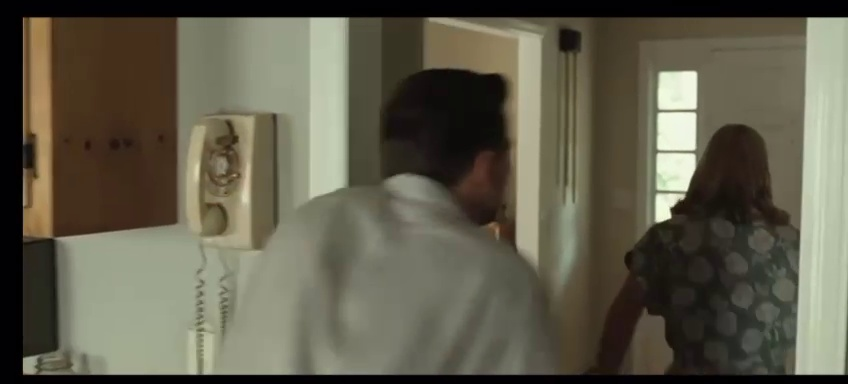
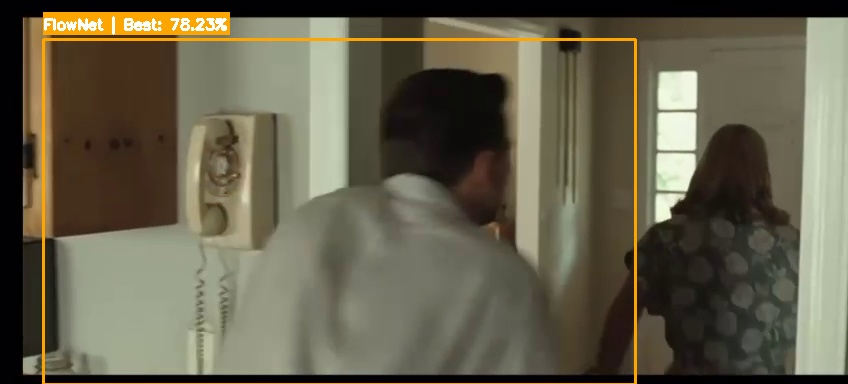
flowtracker+flownet_utils

Changed region(s): [[0.0307, 0.0312, 0.7665, 1.0]]

diff --git a/server/FlowNet_Component/FlowNet_Utils.py b/server/FlowNet_Component/FlowNet_Utils.py
@@ -3,11 +3,25 @@ import threading
 import time
 
 import cv2
-
+import base64
+import io
+from PIL import Image
+import cv2
+import numpy as np
+from typing import Union
+import asyncio
 from server.FlowNet_Component.TrackingManager import TrackingManager
 from server.Utils.framesGlobals import all_even_frames
 from server.config.config import USE_FLOWNETS
+from server.Utils.framesGlobals import flowdetected_frames
+from server.Utils.db import detected_frames_collection
+from server.FaceNet_Componenet.FaceNet_Utils import face_embedding, embedding_manager
 
+
+
+from server.Utils.db import detected_frames_collection
+from server.FaceNet_Componenet.FaceNet_Utils import face_embedding
+from server.Utils import framesGlobals
 
 logger = logging.getLogger(__name__)
 logger.info(f"Using {'FlowNetS' if USE_FLOWNETS else 'SimpleFlowNet (Farneback)'} for optical flow.")
@@ -72,3 +86,126 @@ def draw_tracking_boxes(frame, frame_index):
             cv2.rectangle(frame, (text_x, text_y - text_size[1] - 5),
                           (text_x + text_size[0], text_y + 5), (0, 165, 255), cv2.FILLED)
             cv2.putText(frame, label, (text_x, text_y), font, font_scale, (255, 255, 255), font_thickness)
+"""
+
+async def insert_flowdetected_frames(uuid: str, running_id: str, frame_per_second: int = 30):
+    
+    #Insert all FlowNet-tracked detections stored in memory into MongoDB.
+    
+    for frame_index, frame_data in flowdetected_frames.items():
+        document = {
+            "uuid": uuid,
+            "running_id": running_id,
+            "frame_index": frame_index,
+            "frame_data": frame_data,
+            "embedded": False,
+            "frame_per_second": frame_per_second
+        }
+        await detected_frames_collection.insert_one(document)
+
+    logger.info(f"[FlowNet] Inserted {len(flowdetected_frames)} FlowNet-tracked frames to MongoDB.")
+"""
+async def insert_flowdetected_frames(uuid: str, running_id: str, frame_per_second: int = 30):
+    inserted_count = 0
+    unique_embeddings = []
+
+    reference_record = await get_reference_record(uuid)
+    if reference_record is None:
+        return
+
+    for frame_index, frame_data in flowdetected_frames.items():
+        base64_crop = frame_data.get("cropped_image")
+        if not base64_crop:
+            logger.warning(f"[FlowNet] No image found in flowdetected_frames[{frame_index}]")
+            continue
+
+        image = decode_base64_to_image(base64_crop)
+        if image is None:
+            continue
+
+        embedding = compute_embedding(image)
+        if embedding is None:
+            logger.warning(f"[FlowNet] No face detected at frame {frame_index}")
+            similarity = 0.0
+            embedded = False
+            is_unique = False
+
+        else:
+            logger.info(f"[FlowNet] UUID {uuid} | Frame {frame_index} | Embedding preview: {embedding.flatten()[:5]}")
+            similarity = compute_similarity(reference_record, base64_crop)
+            embedded = True
+            is_unique = await is_unique_flownet_embedding(uuid, embedding)
+
+            if is_unique:
+                logger.info(f"[FlowNet] Frame {frame_index} embedding is UNIQUE")
+                unique_embeddings.append(embedding)
+
+            else:
+                logger.info(f"[FlowNet] Frame {frame_index} embedding is NOT unique")
+
+        #logger.info(f"[FlowNet] UUID {uuid} | Frame {frame_index} | Embedding preview: {embedding.flatten()[:5]}")
+
+        #similarity = compute_similarity(reference_record, base64_crop)
+
+        #document = build_flownet_document(uuid, running_id, frame_index, base64_crop, similarity, frame_per_second)
+        #document = build_flownet_document(uuid, running_id, frame_index, base64_crop, similarity, frame_per_second, embedded)
+        document = build_flownet_document(
+            uuid, running_id, frame_index, base64_crop,
+            similarity, frame_per_second, embedded, is_unique
+        )
+        await detected_frames_collection.insert_one(document)
+        inserted_count += 1
+
+    if unique_embeddings:
+        logger.info(f"[FlowNet] Storing {len(unique_embeddings)} new unique FlowNet embeddings to DB.")
+        await embedding_manager.save_embeddings_to_db(uuid, unique_embeddings)
+
+    logger.info(f"[FlowNet] Inserted {inserted_count} FlowNet-tracked frames to MongoDB.")
+
+
+async def get_reference_record(uuid: str):
+    record = await embedding_manager.get_reference_embeddings(uuid)
+    if record is None or "embeddings" not in record:
+        logger.warning(f"[FlowNet] No reference embeddings found for UUID {uuid}")
+        return None
+    return record
+
+def decode_base64_to_image(base64_crop: str) -> Image.Image:
+    try:
+        return Image.open(io.BytesIO(base64.b64decode(base64_crop)))
+    except Exception as e:
+        logger.error(f"[FlowNet] Failed to decode image: {e}")
+        return None
+
+def compute_embedding(image: Image.Image) -> Union[np.ndarray, None]:
+    embedding = face_embedding.get_embedding(image)
+    return embedding
+
+def compute_similarity(reference_record, base64_crop: str) -> float:
+    return embedding_manager.calculate_similarity(reference_record, base64_crop)
+
+def build_flownet_document(uuid: str, running_id: str, frame_index: int, base64_crop: str,
+                           similarity: float, fps: int, embedded: bool, is_unique: bool):
+    return {
+        "uuid": uuid,
+        "running_id": running_id,
+        "frame_index": frame_index,
+        "frame_data": {
+            "cropped_image": base64_crop,
+            "similarity": similarity
+        },
+        "embedded": True,
+        "is_unique": is_unique,
+        "frame_per_second": fps,
+        "source": "flownet"
+
+    }
+
+async def is_unique_flownet_embedding(uuid: str, new_embedding: np.ndarray, threshold: float = 0.2) -> bool:
+    reference_record = await embedding_manager.get_reference_embeddings(uuid)
+    if not reference_record or "embeddings" not in reference_record:
+        return True  # No reference embeddings → treat as unique
+
+    existing_embeddings = [np.array(e) for e in reference_record.get("embeddings", [])]
+    #return face_embedding.is_unique_embedding(new_embedding, existing_embeddings, threshold)
+    return embedding_manager.is_unique_embedding(new_embedding, existing_embeddings, threshold)

diff --git a/server/FlowNet_Component/FlowTracker.py b/server/FlowNet_Component/FlowTracker.py
@@ -2,9 +2,20 @@ import numpy as np
 import logging
 import cv2
 import time
+import base64
+from PIL import Image
+import io
+import asyncio
+
 from server.Utils.framesGlobals import all_even_frames, detections_frames, dir_path
 from server.FlowNet_Component.Cropper import Cropper
 from server.config.config import SIMILARITY_THRESHOLD
+from server.FaceNet_Componenet.FaceNet_Utils import face_embedding
+from server.Utils.db import detected_frames_collection
+
+
+from server.Utils import framesGlobals
+
 
 logger = logging.getLogger(__name__)
 
@@ -58,6 +69,12 @@ class FlowTracker:
         if updated_box is not None:
             self.last_box = updated_box
             self.last_frame_index = current_frame_index
+
+            # Save cropped FlowNet region to DB
+            curr_frame = all_even_frames[current_frame_index]
+            #self.save_flownet_crop_to_db(curr_frame, updated_box, current_frame_index)
+            #asyncio.create_task(self.save_flownet_crops_to_db(curr_frame, updated_box, current_frame_index))
+            self.store_flow_detection(curr_frame, updated_box, current_frame_index)
 
         return self.last_box
 
@@ -175,3 +192,28 @@ class FlowTracker:
         return x_new, y_new, new_w, new_h
 
         #return x_new, y_new, w, h
+
+    def store_flow_detection(self, frame: np.ndarray, box: tuple, frame_index: int):
+        x, y, w, h = box
+        h_frame, w_frame = frame.shape[:2]
+        x, y = max(0, x), max(0, y)
+        x2, y2 = min(x + w, w_frame), min(y + h, h_frame)
+        cropped = frame[y:y2, x:x2]
+
+        if cropped.size == 0:
+            logger.warning(f"[FlowNet] Skipping empty crop for memory storage at frame {frame_index}")
+            return
+
+        success, buffer = cv2.imencode('.jpg', cropped)
+        if not success:
+            logger.warning(f"[FlowNet] Failed to encode crop at frame {frame_index}")
+            return
+
+        base64_crop = base64.b64encode(buffer).decode('utf-8')
+
+        framesGlobals.flowdetected_frames[frame_index] = {
+            "cropped_image": base64_crop,
+            "similarity": 0  # placeholder; update later if needed
+        }
+
+        logger.info(f"[FlowNet] Stored FlowNet detection in memory for UUID {self.uuid} at frame {frame_index}")

diff --git a/server/Yolo_Componenet/Yolo_Utils.py b/server/Yolo_Componenet/Yolo_Utils.py
@@ -16,6 +16,8 @@ import queue
 from server.FlowNet_Component.FlowNet_Utils import start_flow_tracking, get_tracking_manager, draw_tracking_boxes
 #from server.Utils.framesGlobals import annotated_frames, detections_frames, all_even_frames, dir_path
 import server.Utils.framesGlobals as framesGlobals
+from server.FlowNet_Component.FlowNet_Utils import insert_flowdetected_frames
+
 
 # Set up logging
 logging.basicConfig(level=logging.INFO)
@@ -172,6 +174,7 @@ async def process_and_annotate_video(video_path: str, similarity_threshold: floa
     #Save detected frames to MongoDB separately
     await insert_detected_frames_separately(uuid=uuid, running_id=running_id, detected_frames=detected_frames,
                                             frame_per_second=frame_per_second)
+    await insert_flowdetected_frames(uuid=uuid, running_id=running_id, frame_per_second=frame_per_second)
 
     #Re-encode the annotated video
     reencoded_output_path = video_path.replace(".mp4", "_annotated_reencoded.mp4")

diff --git a/server/Utils/framesGlobals.py b/server/Utils/framesGlobals.py
@@ -3,3 +3,4 @@ annotated_frames = {}
 detections_frames = {}
 all_even_frames = {}
 dir_path=""
+flowdetected_frames = {}
